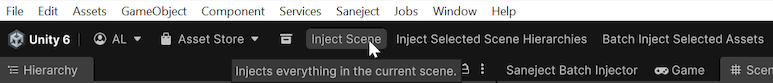
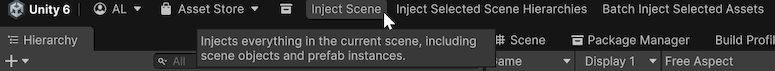
Update tooltips and remove outdated documentation references

diff --git a/UnityProject/Saneject/Assets/Plugins/Saneject/Editor/Menus/InjectToolbar/InjectToolbarButtons.cs b/UnityProject/Saneject/Assets/Plugins/Saneject/Editor/Menus/InjectToolbar/InjectToolbarButtons.cs
@@ -100,28 +100,28 @@ namespace Plugins.Saneject.Editor.Menus.InjectToolbar
             injectSceneButton = CreateButton
             (
                 text: "Inject Scene",
-                tooltip: "Injects everything in the current scene.",
+                tooltip: "Injects everything in the current scene, including scene objects and prefab instances.",
                 onClicked: () => InjectionUtility.InjectCurrentScene(ContextWalkFilter.AllContexts)
             );
 
             injectSelectionButton = CreateButton
             (
                 text: "Inject Selected Scene Hierarchies",
-                tooltip: "Inject everything in the selected scene hierarchies.",
+                tooltip: "Inject everything in the selected scene hierarchies, including scene objects and prefab instances.",
                 onClicked: () => InjectionUtility.InjectSelectedSceneHierarchies(ContextWalkFilter.AllContexts)
             );
 
             injectPrefabButton = CreateButton
             (
                 text: "Inject Prefab Asset",
-                tooltip: "Injects everything in the current prefab asset.",
+                tooltip: "Injects everything in the current prefab asset, including prefab asset objects and prefab instances.",
                 onClicked: () => InjectionUtility.InjectCurrentPrefabAsset(ContextWalkFilter.AllContexts)
             );
 
             batchInjectSelectedAssetsButton = CreateButton
             (
                 text: "Batch Inject Selected Assets",
-                tooltip: "Batch injects the selected folders, scene assets, and prefab assets.",
+                tooltip: "Batch injects the selected folders, scene assets, and prefab assets, including scene objects, prefab asset objects, and prefab instances.",
                 onClicked: () => InjectionUtility.BatchInjectSelectedAssets(ContextWalkFilter.AllContexts)
             );
 

diff --git a/Docs/docs/editor-and-tooling/injection-toolbar-and-context-menus.md b/Docs/docs/editor-and-tooling/injection-toolbar-and-context-menus.md
@@ -162,9 +162,6 @@ Entry points:
 
 ![Saneject batch injection context menu](../../images/batch-injection-context-menu.webp)
 
-> Note: The screenshot above predates the menu rename and only shows the older `Selected Assets (All Contexts)` path.
-> Use the `Assets/Saneject/Batch Inject Selected Assets/...` and `Saneject/Batch Inject Selected Assets/...` paths listed above in current versions.
-
 Availability:
 
 - Enabled only when the current Project selection includes at least one scene asset or [prefab asset](../reference/glossary.md#prefab-asset).
